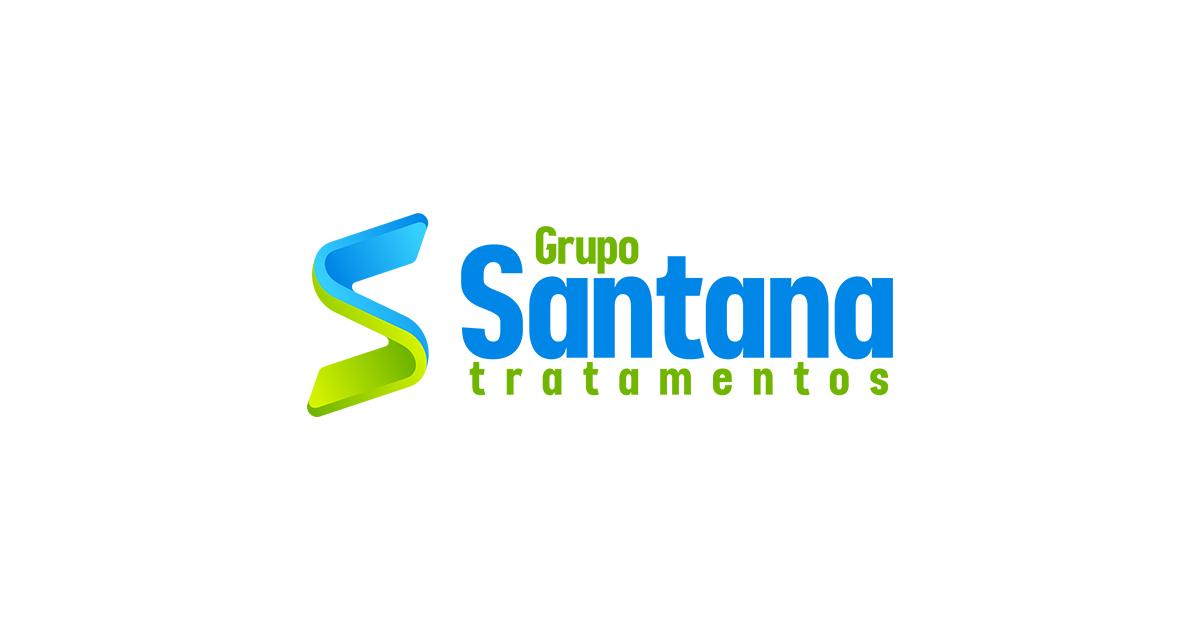
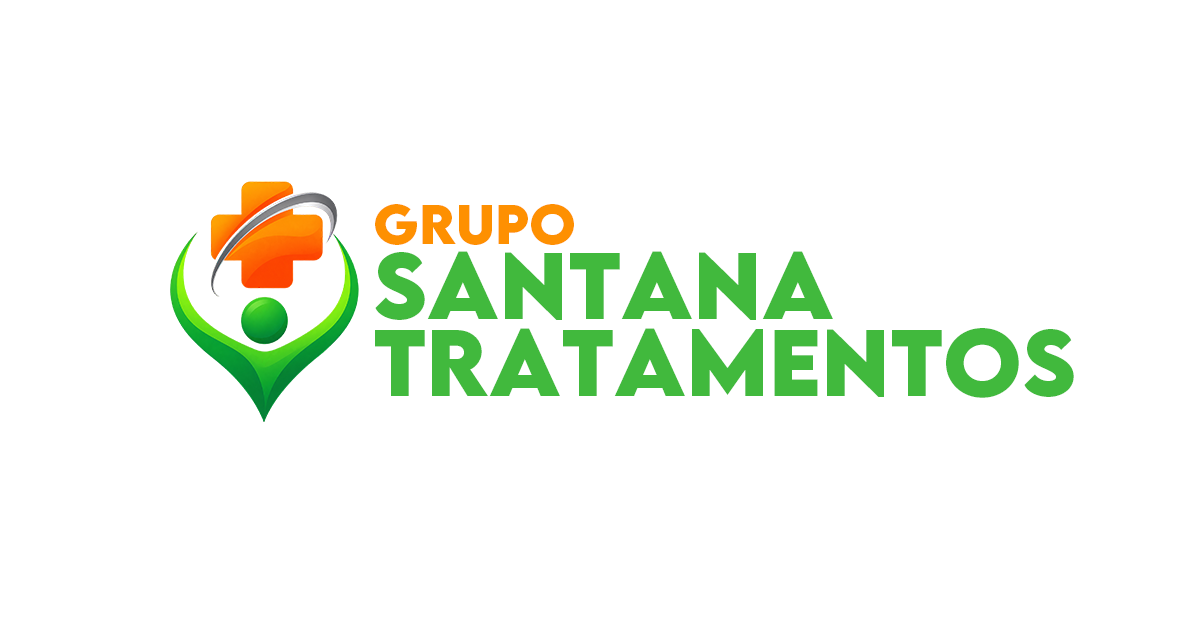
a

Changed region(s): [[0.1233, 0.2714, 0.8942, 0.6635]]

diff --git a/assets/css/style.css b/assets/css/style.css
@@ -1,18 +1,18 @@
 :root {
-  --blue: #0086e6;
-  --cyan: #32cbfd;
-  --green: #75b800;
-  --lime: #d2f200;
-  --navy: #071b2e;
-  --ink: #10253b;
-  --muted: #5f7184;
-  --line: #d9ebf6;
-  --soft: #f4fbff;
+  --blue: #fc4200;
+  --cyan: #fe8e01;
+  --green: #41b93d;
+  --lime: #038630;
+  --navy: #0a3020;
+  --ink: #18362a;
+  --muted: #5d7065;
+  --line: #d9eadc;
+  --soft: #f5fbf5;
   --white: #ffffff;
-  --brand: linear-gradient(135deg, #0086e6 0%, #32cbfd 48%, #75b800 100%);
-  --brand-dark: linear-gradient(135deg, #061a30 0%, #073f71 56%, #3b6100 100%);
-  --lime-grad: linear-gradient(135deg, #75b800 0%, #d2f200 100%);
-  --shadow: 0 22px 54px rgba(0, 87, 150, 0.16);
+  --brand: linear-gradient(135deg, #fc4200 0%, #fe8e01 36%, #41b93d 68%, #038630 100%);
+  --brand-dark: linear-gradient(135deg, #0a3020 0%, #038630 100%);
+  --lime-grad: linear-gradient(135deg, #fc4200 0%, #fe8e01 100%);
+  --shadow: 0 22px 54px rgba(3, 134, 48, 0.15);
   --radius: 8px;
   --header: 86px;
 }
@@ -33,7 +33,7 @@ html {
 body {
   margin: 0;
   color: var(--ink);
-  background: #f7fcff;
+  background: #f7fbf7;
   font-family: "Segoe UI", Arial, Helvetica, sans-serif;
   font-size: 16px;
   line-height: 1.6;
@@ -111,12 +111,12 @@ h3 {
   background: rgba(255, 255, 255, 0.9);
   border-top: 4px solid transparent;
   border-image: var(--brand) 1;
-  border-bottom: 1px solid rgba(50, 203, 253, 0.22);
+  border-bottom: 1px solid rgba(254, 142, 1, 0.24);
   backdrop-filter: blur(16px);
 }
 
 .site-header.is-scrolled {
-  box-shadow: 0 12px 34px rgba(0, 87, 150, 0.13);
+  box-shadow: 0 12px 34px rgba(3, 134, 48, 0.13);
 }
 
 .header-shell {
@@ -132,7 +132,7 @@ h3 {
 
 .brand img {
   width: auto;
-  height: 58px;
+  height: 48px;
 }
 
 .site-nav {
@@ -160,7 +160,7 @@ h3 {
 
 .site-nav a:hover,
 .site-nav a:focus-visible {
-  background: #eaf8ff;
+  background: #fff1ea;
   color: var(--blue);
 }
 
@@ -171,7 +171,7 @@ h3 {
   align-items: center;
   justify-content: center;
   color: var(--blue);
-  background: #eaf8ff;
+  background: #fff1ea;
   border: 1px solid var(--line);
   border-radius: var(--radius);
 }
@@ -211,16 +211,16 @@ h3 {
 .btn-primary,
 .header-cta,
 .floating-whatsapp {
-  color: #061a30;
+  color: #0a3020;
   background: var(--brand);
-  box-shadow: 0 18px 34px rgba(0, 134, 230, 0.24);
+  box-shadow: 0 18px 34px rgba(252, 66, 0, 0.22);
 }
 
 .btn-secondary {
   color: var(--blue);
   background: var(--white);
   border-color: var(--line);
-  box-shadow: 0 12px 28px rgba(0, 87, 150, 0.12);
+  box-shadow: 0 12px 28px rgba(3, 134, 48, 0.12);
 }
 
 .btn-ghost {
@@ -286,8 +286,8 @@ h3 {
 .hero::after {
   z-index: -1;
   background:
-    radial-gradient(circle at 78% 20%, rgba(210, 242, 0, 0.28), transparent 28%),
-    linear-gradient(105deg, rgba(7, 27, 46, 0.96) 0%, rgba(0, 134, 230, 0.72) 52%, rgba(59, 97, 0, 0.62) 100%);
+    radial-gradient(circle at 78% 20%, rgba(254, 142, 1, 0.28), transparent 28%),
+    linear-gradient(105deg, rgba(10, 48, 32, 0.96) 0%, rgba(3, 134, 48, 0.74) 52%, rgba(252, 66, 0, 0.64) 100%);
 }
 
 .hero-grid {
@@ -304,7 +304,7 @@ h3 {
 .family-copy .section-kicker,
 .alert-grid .section-kicker,
 .contact-grid .section-kicker {
-  color: var(--lime);
+  color: var(--cyan);
 }
 
 .hero-copy p {
@@ -330,7 +330,7 @@ h3 {
   background: rgba(255, 255, 255, 0.92);
   border: 1px solid rgba(255, 255, 255, 0.62);
   border-radius: var(--radius);
-  box-shadow: 0 28px 70px rgba(0, 30, 58, 0.26);
+  box-shadow: 0 28px 70px rgba(10, 48, 32, 0.26);
   backdrop-filter: blur(18px);
 }
 
@@ -344,9 +344,9 @@ h3 {
   align-items: center;
   gap: 8px;
   padding: 8px 11px;
-  color: #416300;
-  background: #f1ffd8;
-  border: 1px solid #d2f200;
+  color: #026b26;
+  background: #effaef;
+  border: 1px solid #41b93d;
   border-radius: 999px;
   font-size: 13px;
   font-weight: 950;
@@ -357,7 +357,7 @@ h3 {
   height: 9px;
   background: var(--green);
   border-radius: 50%;
-  box-shadow: 0 0 0 5px rgba(117, 184, 0, 0.16);
+  box-shadow: 0 0 0 5px rgba(65, 185, 61, 0.16);
 }
 
 .triage-card dl {
@@ -369,7 +369,7 @@ h3 {
 
 .triage-card dl div {
   padding: 13px;
-  background: linear-gradient(135deg, #f7fcff 0%, #f2ffd9 100%);
+  background: linear-gradient(135deg, #fff8f3 0%, #f0faef 100%);
   border: 1px solid var(--line);
   border-radius: var(--radius);
 }
@@ -392,8 +392,8 @@ h3 {
 
 .orientation-section {
   background:
-    linear-gradient(90deg, rgba(0, 134, 230, 0.045) 1px, transparent 1px),
-    linear-gradient(180deg, #ffffff 0%, #f3fbff 100%);
+    linear-gradient(90deg, rgba(252, 66, 0, 0.045) 1px, transparent 1px),
+    linear-gradient(180deg, #ffffff 0%, #f5fbf5 100%);
   background-size: 58px 58px, auto;
 }
 
@@ -434,7 +434,7 @@ h3 {
 .signal-board svg {
   width: 30px;
   height: 30px;
-  color: var(--lime);
+  color: var(--cyan);
 }
 
 .signal-board strong {
@@ -447,9 +447,9 @@ h3 {
 
 .units-lab {
   background:
-    radial-gradient(circle at 12% 8%, rgba(50, 203, 253, 0.22), transparent 30%),
-    radial-gradient(circle at 88% 10%, rgba(210, 242, 0, 0.22), transparent 30%),
-    linear-gradient(180deg, #eefaff 0%, #ffffff 55%, #f6ffe7 100%);
+    radial-gradient(circle at 12% 8%, rgba(254, 142, 1, 0.20), transparent 30%),
+    radial-gradient(circle at 88% 10%, rgba(65, 185, 61, 0.20), transparent 30%),
+    linear-gradient(180deg, #fff7f1 0%, #ffffff 55%, #f1faef 100%);
 }
 
 .lab-header {
@@ -479,9 +479,9 @@ h3 {
   margin-bottom: 22px;
   padding: 16px;
   background: var(--white);
-  border: 1px solid rgba(0, 134, 230, 0.16);
+  border: 1px solid rgba(252, 66, 0, 0.16);
   border-radius: var(--radius);
-  box-shadow: 0 18px 44px rgba(0, 134, 230, 0.12);
+  box-shadow: 0 18px 44px rgba(3, 134, 48, 0.12);
 }
 
 .filter-count {
@@ -528,7 +528,7 @@ h3 {
   justify-content: center;
   gap: 9px;
   color: var(--blue);
-  background: #f4fbff;
+  background: #fff4ee;
   border: 1px solid var(--line);
   border-radius: var(--radius);
   font-weight: 950;
@@ -569,7 +569,7 @@ h3 {
   contain: paint;
   aspect-ratio: 4 / 3;
   overflow: hidden;
-  background: linear-gradient(135deg, rgba(0, 134, 230, 0.12), rgba(117, 184, 0, 0.12)), #eaf8ff;
+  background: linear-gradient(135deg, rgba(252, 66, 0, 0.12), rgba(65, 185, 61, 0.12)), #f3faf2;
 }
 
 .unit-carousel .swiper-wrapper,
@@ -620,7 +620,7 @@ h3 {
   gap: 6px;
   padding: 7px 10px;
   color: var(--blue);
-  background: #eaf8ff;
+  background: #fff1ea;
   border-radius: var(--radius);
   font-size: 13px;
   font-weight: 950;
@@ -632,8 +632,8 @@ h3 {
 }
 
 .tag.accent {
-  color: #416300;
-  background: #f1ffd8;
+  color: #026b26;
+  background: #effaef;
 }
 
 .unit-body p {
@@ -651,7 +651,7 @@ h3 {
 
 .resource-list li {
   padding: 7px 10px;
-  background: #f7fcff;
+  background: #f7fbf7;
   border: 1px solid var(--line);
   border-radius: var(--radius);
   color: var(--ink);
@@ -673,7 +673,7 @@ h3 {
   align-items: center;
   justify-content: center;
   color: var(--white);
-  background: rgba(7, 27, 46, 0.72);
+  background: rgba(10, 48, 32, 0.76);
   border: 1px solid rgba(255, 255, 255, 0.42);
   border-radius: 50%;
   transform: translateY(-50%);
@@ -764,7 +764,7 @@ h3 {
 }
 
 .family-list svg {
-  color: var(--lime);
+  color: var(--cyan);
 }
 
 .alert-grid ul {
@@ -808,7 +808,7 @@ h3 {
   background: var(--white);
   border: 1px solid var(--line);
   border-radius: var(--radius);
-  box-shadow: 0 10px 28px rgba(0, 87, 150, 0.08);
+  box-shadow: 0 10px 28px rgba(3, 134, 48, 0.08);
 }
 
 .faq-item button {
@@ -849,8 +849,8 @@ h3 {
 
 .contact-section {
   background:
-    radial-gradient(circle at 12% 8%, rgba(50, 203, 253, 0.18), transparent 30%),
-    linear-gradient(135deg, #061a30 0%, #073f71 100%);
+    radial-gradient(circle at 12% 8%, rgba(254, 142, 1, 0.20), transparent 30%),
+    linear-gradient(135deg, #0a3020 0%, #038630 100%);
 }
 
 .contact-form {
@@ -860,7 +860,7 @@ h3 {
   background: var(--white);
   border: 1px solid rgba(255, 255, 255, 0.64);
   border-radius: var(--radius);
-  box-shadow: 0 26px 60px rgba(0, 30, 58, 0.25);
+  box-shadow: 0 26px 60px rgba(10, 48, 32, 0.25);
 }
 
 .form-row {
@@ -880,7 +880,7 @@ h3 {
 .site-footer {
   padding: 44px 0 96px;
   color: rgba(255, 255, 255, 0.82);
-  background: #061a30;
+  background: #0a3020;
 }
 
 .site-footer img {
@@ -968,7 +968,7 @@ h3 {
   }
 
   .brand img {
-    height: 66px;
+    height: 52px;
   }
 
   .site-nav {
@@ -1064,7 +1064,7 @@ h3 {
   }
 
   .brand img {
-    height: 56px;
+    height: 46px;
   }
 
   .site-nav a {

diff --git a/index.html b/index.html
@@ -6,7 +6,7 @@
   <meta name="description" content="Grupo Santana Tratamentos: orientação familiar e encaminhamento para clínicas parceiras de reabilitação, com atendimento discreto e humanizado.">
   <meta name="keywords" content="Grupo Santana Tratamentos, clínicas de reabilitação, encaminhamento para clínica, dependência química, alcoolismo, internação, Goiás">
   <meta name="author" content="Grupo Santana Tratamentos">
-  <meta name="theme-color" content="#0086e6">
+  <meta name="theme-color" content="#038630">
 
   <meta property="og:title" content="Grupo Santana Tratamentos | Orientação e Encaminhamento">
   <meta property="og:description" content="Apoio para famílias que precisam encontrar uma clínica parceira de reabilitação com orientação e discrição.">
@@ -21,7 +21,7 @@
   <title>Grupo Santana Tratamentos | Orientação e Encaminhamento</title>
 
   <link rel="icon" type="image/png" href="favicon.png">
-  <link rel="preload" as="image" href="logotipo-horizontal.png">
+  <link rel="preload" as="image" href="logotipo-grupo-santana-horizontal.png">
   <link rel="preload" as="image" href="assets/img/backgrounds/chacara-piscina-03.webp">
   <link rel="stylesheet" href="https://cdn.jsdelivr.net/npm/swiper@11/swiper-bundle.min.css">
   <link rel="stylesheet" href="https://cdn.jsdelivr.net/npm/glightbox/dist/css/glightbox.min.css">
@@ -32,7 +32,7 @@
   <header class="site-header" data-header>
     <div class="container header-shell">
       <a class="brand" href="#inicio" aria-label="Grupo Santana Tratamentos">
-        <img src="logotipo-horizontal.png" alt="Grupo Santana Tratamentos">
+        <img src="logotipo-grupo-santana-horizontal.png" alt="Grupo Santana Tratamentos">
       </a>
 
       <button class="nav-toggle" type="button" aria-label="Abrir menu" aria-expanded="false" data-nav-toggle>
@@ -75,7 +75,7 @@
         </div>
 
         <aside class="triage-card" data-aos="fade-left" aria-label="Resumo do atendimento">
-          <img src="logotipo-vertical.png" alt="Grupo Santana Tratamentos">
+          <img src="logotipo-grupo-santana-vertical.png" alt="Grupo Santana Tratamentos">
           <a class="triage-status" href="#" data-whatsapp-default target="_blank" rel="noopener">
             <span></span>
             Atendimento pelo WhatsApp
@@ -317,7 +317,7 @@
   <footer class="site-footer">
     <div class="container footer-grid">
       <div>
-        <img src="logotipo-vertical.png" alt="Grupo Santana Tratamentos">
+        <img src="logotipo-grupo-santana-vertical.png" alt="Grupo Santana Tratamentos">
         <p>Orientação familiar e encaminhamento para clínicas parceiras de reabilitação.</p>
       </div>
       <nav aria-label="Links do rodapé">
